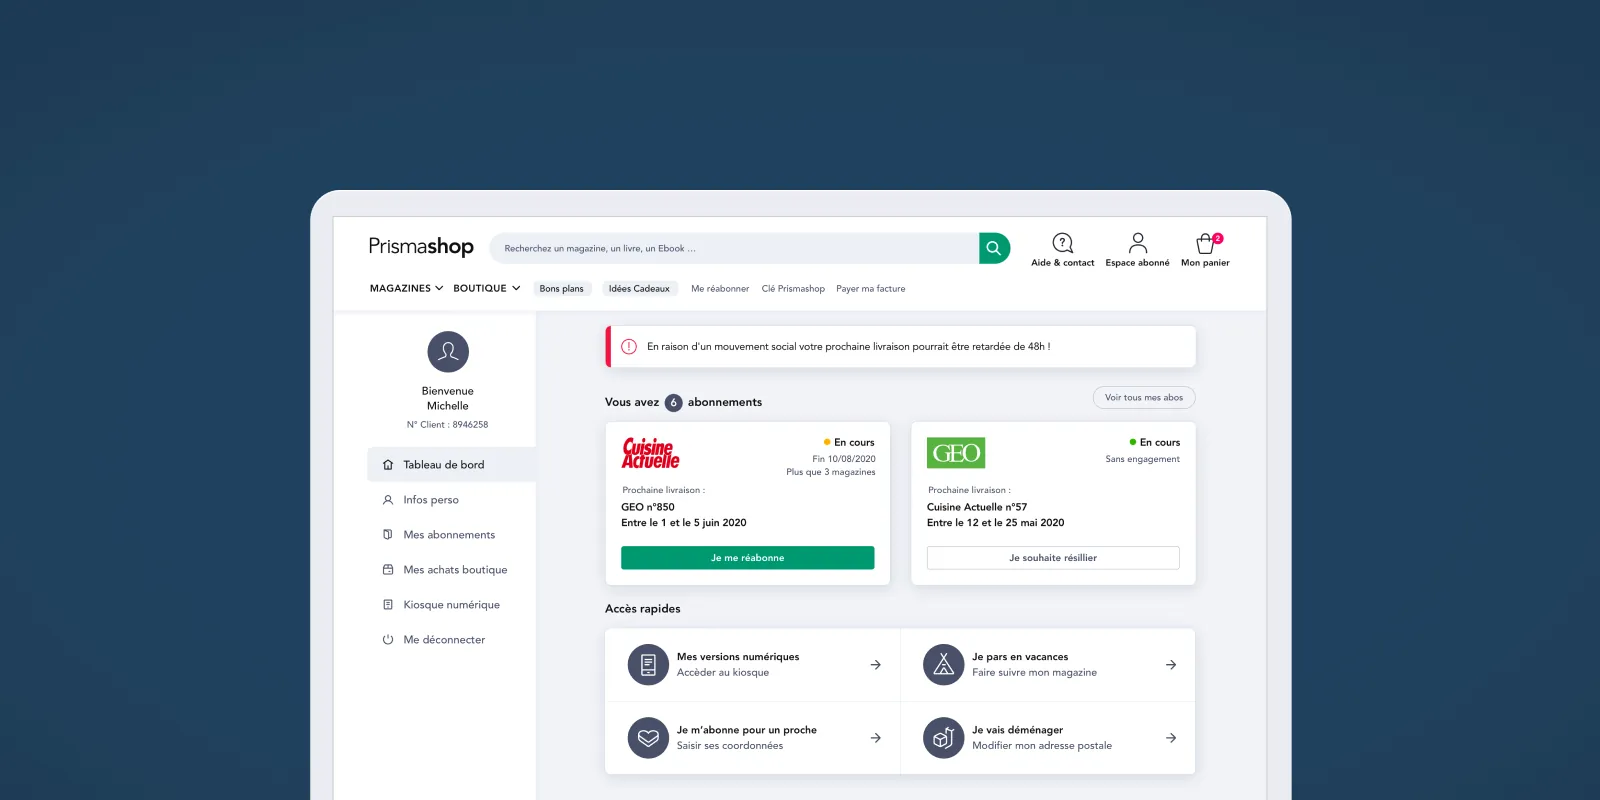
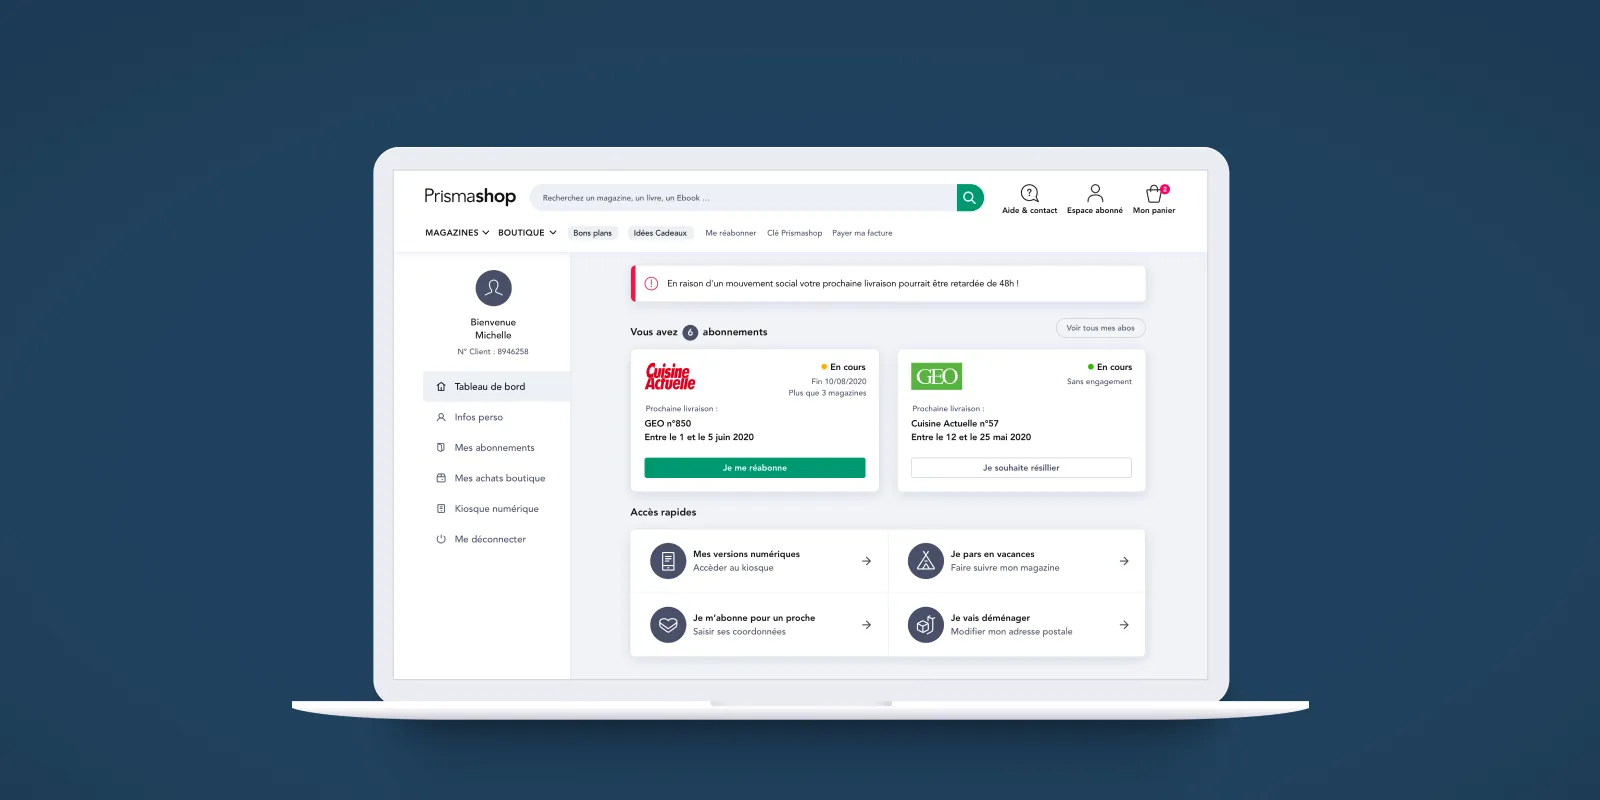
modif prisma

Changed region(s): [[0.1875, 0.1562, 0.8125, 1.0], [0.5, 0.2812, 0.5312, 0.3125]]

diff --git a/src/lib/notion.ts b/src/lib/notion.ts
@@ -101,7 +101,16 @@ function notionPageToCaseStudy(page: any): CaseStudy {
   };
 }
 
-function parseBlocks(blocks: any[]): ContentBlock[] {
+async function fetchChildren(blockId: string): Promise<any[]> {
+  try {
+    const res = await notion.blocks.children.list({ block_id: blockId });
+    return res.results;
+  } catch {
+    return [];
+  }
+}
+
+async function parseBlocks(blocks: any[]): Promise<ContentBlock[]> {
   const result: ContentBlock[] = [];
 
   for (const block of blocks) {
@@ -127,22 +136,44 @@ function parseBlocks(blocks: any[]): ContentBlock[] {
         break;
       }
       case "bulleted_list_item": {
-        const text = richTextToString(block.bulleted_list_item.rich_text);
+        let text = richTextToString(block.bulleted_list_item.rich_text);
         if (!text) break;
-        const last = result[result.length - 1];
-        if (last?.type === "bullet_list") {
-          last.items.push(text);
+        if (block.has_children) {
+          const children = await fetchChildren(block.id);
+          const subItems = children
+            .filter((c: any) => c.type === "bulleted_list_item" || c.type === "numbered_list_item")
+            .map((c: any) => {
+              const key = c.type === "bulleted_list_item" ? "bulleted_list_item" : "numbered_list_item";
+              return `<li>${richTextToString(c[key].rich_text)}</li>`;
+            })
+            .join("");
+          if (subItems) text += `<ul class="sub-list">${subItems}</ul>`;
+        }
+        const lastB = result[result.length - 1];
+        if (lastB?.type === "bullet_list") {
+          lastB.items.push(text);
         } else {
           result.push({ type: "bullet_list", items: [text] });
         }
         break;
       }
       case "numbered_list_item": {
-        const text = richTextToString(block.numbered_list_item.rich_text);
+        let text = richTextToString(block.numbered_list_item.rich_text);
         if (!text) break;
-        const last = result[result.length - 1];
-        if (last?.type === "numbered_list") {
-          last.items.push(text);
+        if (block.has_children) {
+          const children = await fetchChildren(block.id);
+          const subItems = children
+            .filter((c: any) => c.type === "bulleted_list_item" || c.type === "numbered_list_item")
+            .map((c: any) => {
+              const key = c.type === "bulleted_list_item" ? "bulleted_list_item" : "numbered_list_item";
+              return `<li>${richTextToString(c[key].rich_text)}</li>`;
+            })
+            .join("");
+          if (subItems) text += `<ul class="sub-list">${subItems}</ul>`;
+        }
+        const lastN = result[result.length - 1];
+        if (lastN?.type === "numbered_list") {
+          lastN.items.push(text);
         } else {
           result.push({ type: "numbered_list", items: [text] });
         }
@@ -232,7 +263,7 @@ export async function getCaseStudyBySlug(
     const caseStudy = notionPageToCaseStudy(page);
 
     const blocksResponse = await notion.blocks.children.list({ block_id: page.id });
-    caseStudy.content = parseBlocks(blocksResponse.results);
+    caseStudy.content = await parseBlocks(blocksResponse.results);
 
     return caseStudy;
   } catch (err) {

diff --git a/src/utils/notion-id.ts b/src/utils/notion-id.ts
@@ -70,25 +70,39 @@ async function parseBlocks(blocks: any[]): Promise<ContentBlock[]> {
         if (block.has_children) {
           const children = await fetchChildren(block.id);
           const subItems = children
-            .filter((c: any) => c.type === "bulleted_list_item")
-            .map((c: any) => `<li>${richTextToHtml(c.bulleted_list_item.rich_text)}</li>`)
+            .filter((c: any) => c.type === "bulleted_list_item" || c.type === "numbered_list_item")
+            .map((c: any) => {
+              const key = c.type === "bulleted_list_item" ? "bulleted_list_item" : "numbered_list_item";
+              return `<li>${richTextToHtml(c[key].rich_text)}</li>`;
+            })
             .join("");
           if (subItems) html += `<ul class="sub-list">${subItems}</ul>`;
         }
-        const last = result[result.length - 1];
-        if (last?.type === "bullet_list") {
-          last.items.push(html);
+        const lastB = result[result.length - 1];
+        if (lastB?.type === "bullet_list") {
+          lastB.items.push(html);
         } else {
           result.push({ type: "bullet_list", items: [html] });
         }
         break;
       }
       case "numbered_list_item": {
-        const html = richTextToHtml(block.numbered_list_item.rich_text);
+        let html = richTextToHtml(block.numbered_list_item.rich_text);
         if (!html) break;
-        const last = result[result.length - 1];
-        if (last?.type === "numbered_list") {
-          last.items.push(html);
+        if (block.has_children) {
+          const children = await fetchChildren(block.id);
+          const subItems = children
+            .filter((c: any) => c.type === "bulleted_list_item" || c.type === "numbered_list_item")
+            .map((c: any) => {
+              const key = c.type === "bulleted_list_item" ? "bulleted_list_item" : "numbered_list_item";
+              return `<li>${richTextToHtml(c[key].rich_text)}</li>`;
+            })
+            .join("");
+          if (subItems) html += `<ul class="sub-list">${subItems}</ul>`;
+        }
+        const lastN = result[result.length - 1];
+        if (lastN?.type === "numbered_list") {
+          lastN.items.push(html);
         } else {
           result.push({ type: "numbered_list", items: [html] });
         }
